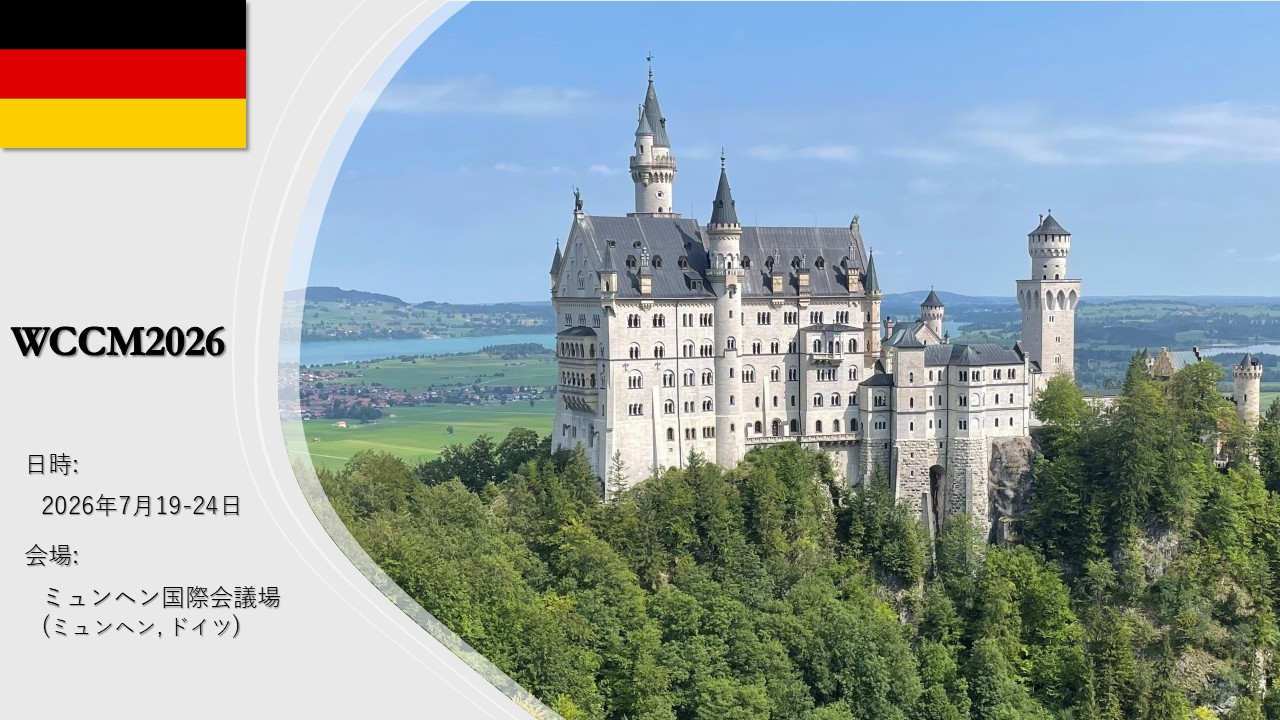
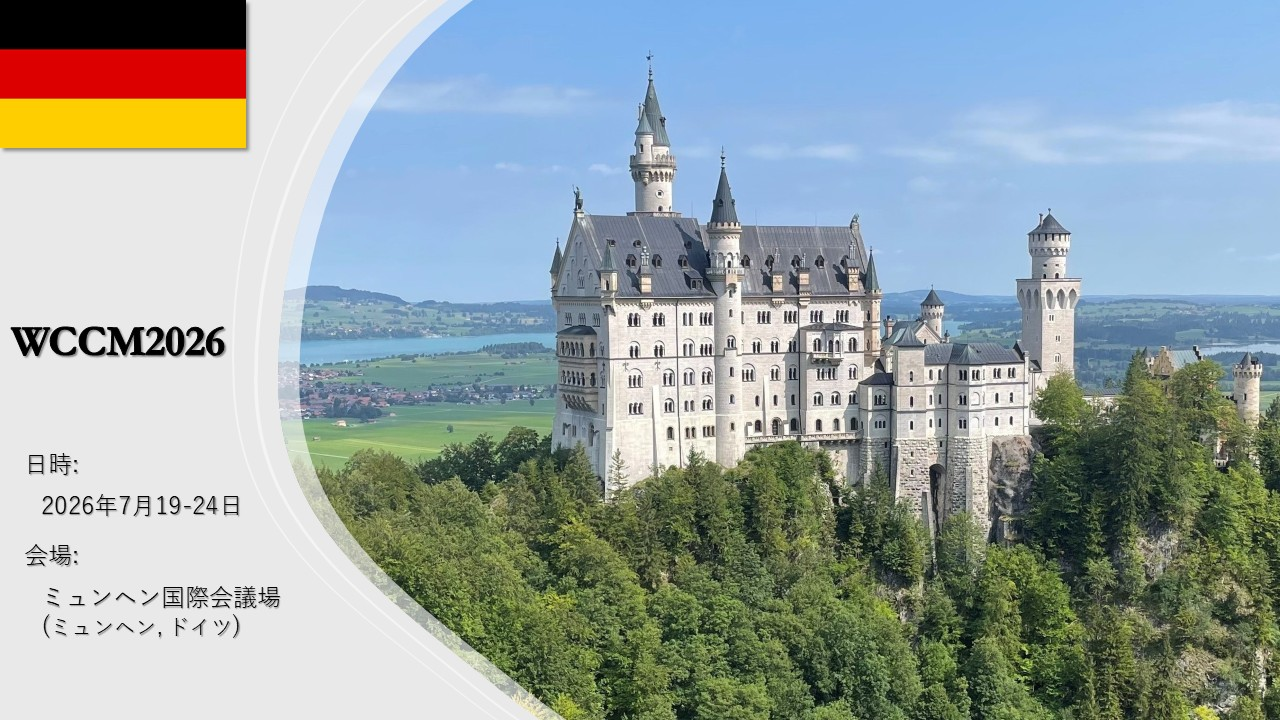
mod

diff --git a/content/ja/events/conf07/index.md b/content/ja/events/conf07/index.md
@@ -1,6 +1,6 @@
 ---
 title: "An enhanced Rousselier model to predict ductile fracture under a wide range of loading conditions"
-date: '2026-07-25T00:00:00Z'
+date: '2026-07-24T00:00:00Z'
 
 share: false
 
@@ -62,5 +62,9 @@ My presentation is mainly about:
 - ✅ Flat fracture
 - ✅ Shear-lip fracture
 - ✅ Rousselier model
+- ✅ Tresca model
+- ✅ Secondary void damage
+
+{{< button url="https://wccm-eccomas2026.org/programme_overview" text="Program Overview" icon="book-open" style="outline" size="md" align="center" />}}
 
 

diff --git a/content/en/events/conf07/index.md b/content/en/events/conf07/index.md
@@ -1,6 +1,6 @@
 ---
 title: "An enhanced Rousselier model to predict ductile fracture under a wide range of loading conditions"
-date: '2026-07-25T00:00:00Z'
+date: '2026-07-24T00:00:00Z'
 
 share: false
 
@@ -62,5 +62,8 @@ My presentation is mainly about:
 - ✅ Flat fracture
 - ✅ Shear-lip fracture
 - ✅ Rousselier model
+- ✅ Tresca model
+- ✅ Secondary void damage
 
+{{< button url="https://wccm-eccomas2026.org/programme_overview" text="Program Overview" icon="book-open" style="outline" size="md" align="center" />}}
 
